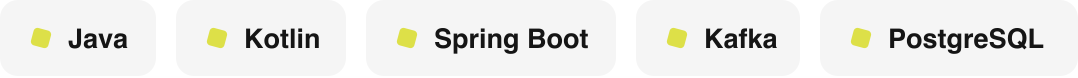
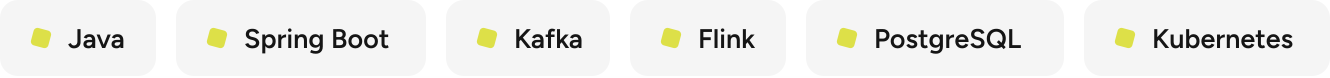
Update list

diff --git a/profile/README.md b/profile/README.md
@@ -29,13 +29,15 @@ This is where we share the parts of that work we think are useful to everyone el
 
 We run a lot of services, and we would rather they were boring. The interesting part of a payments platform should be the payments, not the plumbing.
 
-<img alt="Technology stack: Java, Kotlin, Spring Boot, Kafka, PostgreSQL" src="https://raw.githubusercontent.com/teya-engineering/.github/main/profile/assets/tech-stack.png" width="539" height="39">
+<img alt="Technology stack: Java, Spring Boot, Kafka, Flink, PostgreSQL, Kubernetes" src="https://raw.githubusercontent.com/teya-engineering/.github/main/profile/assets/tech-stack.png" width="665" height="39">
 
-- **The JVM does the heavy lifting.** Java and Kotlin on Spring Boot for most services, on the current LTS or better.
+- **The JVM does the heavy lifting.** Java and Kotlin on Spring Boot for most services, always on latest versions.
 - **Events over calls.** Kafka carries most of what moves between services, with schemas that are versioned and checked before anything ships.
 - **Postgres until it hurts.** Then we partition it. We are slow to add a new datastore and quick to lean on the one we know.
+- **AWS and Kubernetes underneath.** That is where our services run and where the platform team invests, so it is where new services should run too.
 - **If we cannot see it, it is not done.** Metrics, logs, and traces are part of the change, not a follow-up ticket.
 - **Small pull requests, reviewed by humans.** They are easier to reason about, and much easier to roll back at 2am.
+- **There is a paved road, and we stay on it.** We optimise for boring.
 
 <picture>
   <source media="(prefers-color-scheme: dark)" srcset="https://raw.githubusercontent.com/teya-engineering/.github/main/profile/assets/section-work-dark.png">
@@ -58,7 +60,7 @@ The technical choices above only hold up because of how the teams around them wo
   - New requirements and new information are welcome, not a setback.
   - Plan enough to move forward with confidence, and be ready to change direction when it makes sense.
 
-- **🛠Prefer simplicity over perfection**
+- **🔨 Prefer simplicity over perfection**
   - The simple thing that ships and can be changed later beats the perfect thing still being designed.
 
 - **✨ AI first**
@@ -80,7 +82,7 @@ The technical choices above only hold up because of how the teams around them wo
 - **🎉 Have fun**
   - We spend a large part of our lives doing this. It should be worth showing up for.
 
-<a href="https://jobs.ashbyhq.com/teya"><img alt="Come build with us. We are hiring engineers across Europe, in teams working on payments, banking, data, and the platform underneath all of it. See open roles." src="https://raw.githubusercontent.com/teya-engineering/.github/main/profile/assets/hiring-cta.png" width="880"></a>
+<a href="https://www.teya.com/careers"><img alt="Come build with us. We are hiring engineers across Europe, in teams working on payments, banking, data, and the platform underneath all of it. See open roles." src="https://raw.githubusercontent.com/teya-engineering/.github/main/profile/assets/hiring-cta.png" width="880"></a>
 
 <p align="center">
   <sub>Made by the engineers at <a href="https://www.teya.com">Teya</a>.</sub>
